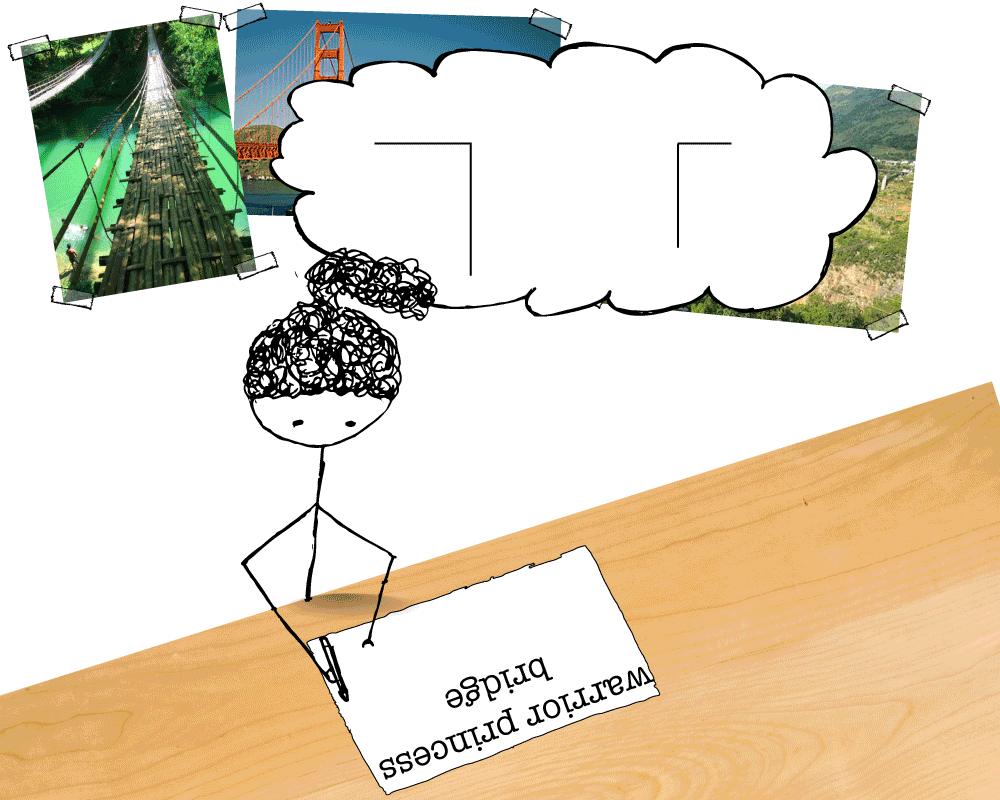
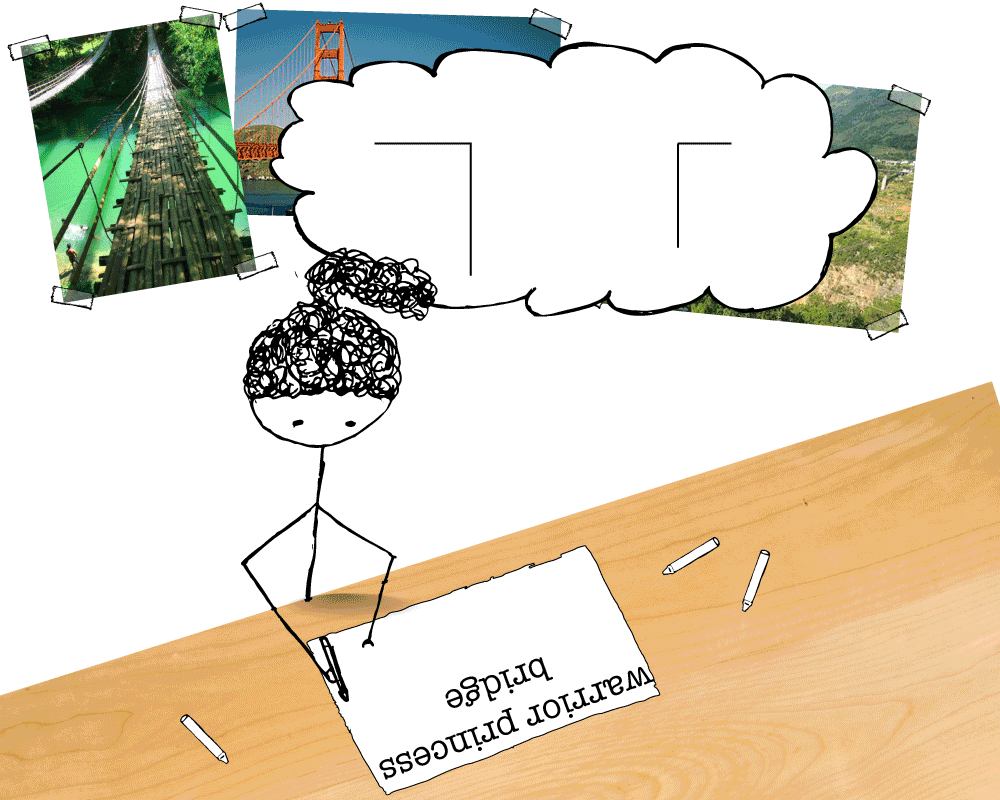
more images

diff --git a/db/seeds.rb b/db/seeds.rb
@@ -40,9 +40,9 @@ topic = FactoryGirl.create(:topic, name:"Design Process",  navgraphic: "navgraph
 #slides for engineering process - Design Process
 FactoryGirl.create(:slide, image: "girlattable_design1.png", title: "How do Engineers design the things they build?", desc: "When people think about Engineering, they often think about  Engineering Design processes. <p><p>Engineers design things before they build them, to make sure that the things they build will work well for how they will be used. <p><p> When engineers design something, they start with what they know about what it should end up like after it has been built. ", audio: "jump.wav", catagory_id: catagory.id, topic_id: topic.id)
 FactoryGirl.create(:slide, image: "girlattable_design2.png", title: "Engineering Design", desc: "A good example of an engineering design problem is building a bridge. <p><p>When the engineers start to think about how to design the bridge, they know where the bridge is supposed to go, such as across a wide river, or a narrow creek, or a deep canyon. <p><p>And, they know what it's supposed to carry. For example, maybe the bridge needs to carry cars and trucks, or maybe it's a walking bridge, or maybe it will be a bridge for trains to cross.", audio: "explosion.wav", catagory_id: catagory.id, topic_id: topic.id)
-FactoryGirl.create(:slide, image: "navgraphics/design_process.png", title: "Engineering Design", desc: "You can imagine what might happen if the bridge is built incorrectly for its planned use...<p><p> For example, what might happen if you build a walking bridge over a deep canyon and then drive a cement truck over it? [crash] <p><p>If the bridge was designed to carry people, the truck may be far too heavy for the bridge, and could end up at the bottom of the ravine!", audio: "jump.wav", catagory_id: catagory.id, topic_id: topic.id)
-FactoryGirl.create(:slide, image: "navgraphics/design_process.png", title: "Engineering Design", desc: "[picture of too-short bridge and train falling in]<p><p>Or, if build a very short bridge over a very wide river, your bridge might end up <i>in</i> the river! <p><p>[glub glub]", audio: "jump.wav", catagory_id: catagory.id, topic_id: topic.id)
-FactoryGirl.create(:slide, image: "navgraphics/design_process.png", title: "Engineering Design", desc: "Now, what if your bridge is going to be built in an area prone to earthquakes, or hurricanes, or tornadoes? <p><p>Then, the engineers might also have to think about how to design the bridge to not fall down when common events for the area occur. <p><p>They might spend a great amount of time thinking about earthquake safety for bridges in California, but more time thinking about Hurricanes in Florida, and more time anticipating tornadoes in Oklahoma.", audio: "jump.wav", catagory_id: catagory.id, topic_id: topic.id)
+FactoryGirl.create(:slide, image: "tabletop_cementtruck_design.png", title: "Engineering Design", desc: "You can imagine what might happen if the bridge is built incorrectly for its planned use...<p><p> For example, what might happen if you build a walking bridge over a deep canyon and then drive a cement truck over it? [crash] <p><p>If the bridge was designed to carry people, the truck may be far too heavy for the bridge, and could end up at the bottom of the ravine!", audio: "jump.wav", catagory_id: catagory.id, topic_id: topic.id)
+FactoryGirl.create(:slide, image: "tabletop_cementtruck_design2.png", title: "Engineering Design", desc: "[picture of too-short bridge and train falling in]<p><p>Or, if build a very short bridge over a very wide river, your bridge might end up <i>in</i> the river! <p><p>[glub glub]", audio: "jump.wav", catagory_id: catagory.id, topic_id: topic.id)
+FactoryGirl.create(:slide, image: "tabletop_cementtruck_design3.png", title: "Engineering Design", desc: "Now, what if your bridge is going to be built in an area prone to earthquakes, or hurricanes, or tornadoes? <p><p>Then, the engineers might also have to think about how to design the bridge to not fall down when common events for the area occur. <p><p>They might spend a great amount of time thinking about earthquake safety for bridges in California, but more time thinking about Hurricanes in Florida, and more time anticipating tornadoes in Oklahoma.", audio: "jump.wav", catagory_id: catagory.id, topic_id: topic.id)
 FactoryGirl.create(:slide, image: "navgraphics/design_process.png", title: "Engineering Design", desc: "Engineers also have to think about materials that might be used in the design, and decide whether some materials are better than others. <p><p>For example, could you build a bridge out of jello? <p><p>What about building a bridge out of paper in a rainy climate?", audio: "jump.wav", catagory_id: catagory.id, topic_id: topic.id)
 FactoryGirl.create(:slide, image: "navgraphics/design_process.png", title: "Engineering Design", desc: "You might have noticed that many bridges these days are built out of steel and cement. But, many older bridges were built out of wood, masonry, and sometimes iron.", audio: "jump.wav", catagory_id: catagory.id, topic_id: topic.id)
 FactoryGirl.create(:slide, image: "navgraphics/design_process.png", title: "Engineering Design", desc: "But, there are still many choices in how to build a bridge. Engineers may try out different material and design options to see what works better. These days, they may be able to simulate the different options using a computer.", audio: "jump.wav", catagory_id: catagory.id, topic_id: topic.id)
